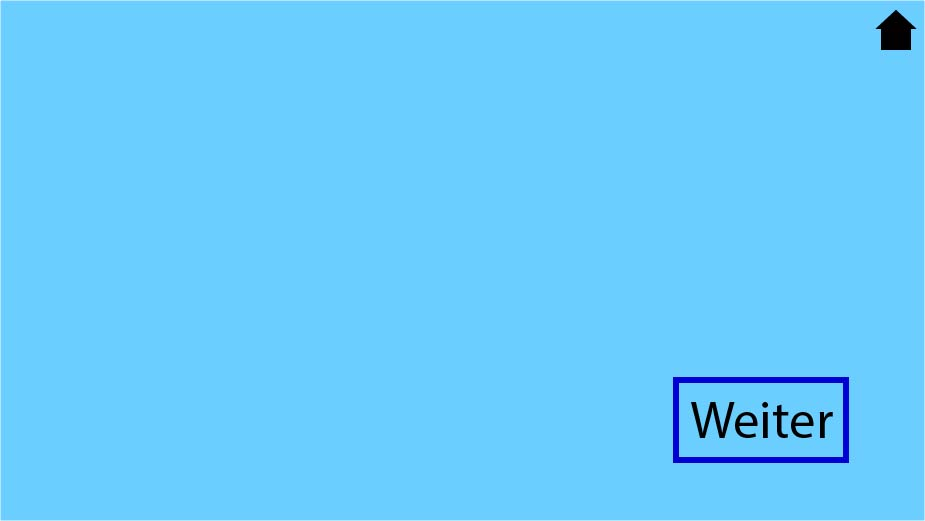
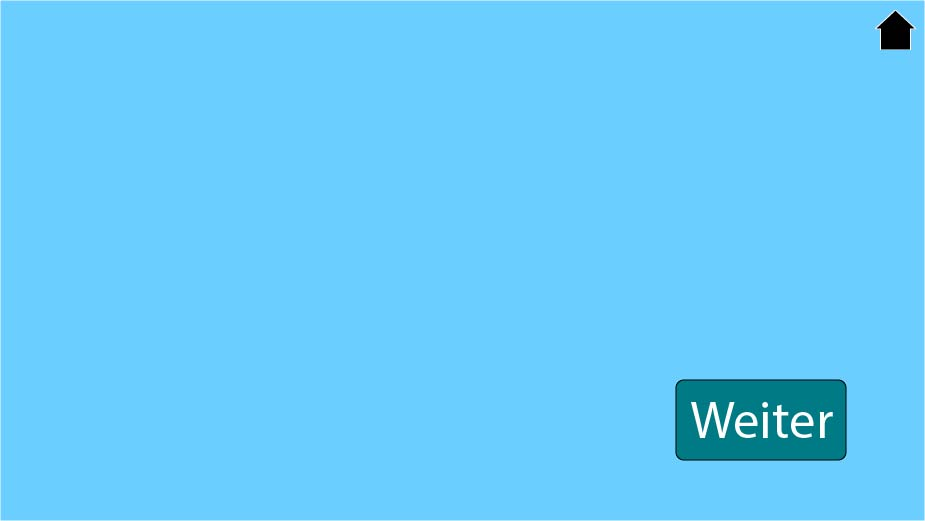
Level 1 Hintergrund Pfad geändert Home Button aktualisiert Collision Detection mit der Spielfigur in Level 4 hinzugefügt

Changed region(s): [[0.7265, 0.7063, 0.9384, 0.8906], [0.9384, 0.0307, 0.9989, 0.0614]]

diff --git a/js/level-4.js b/js/level-4.js
@@ -15,6 +15,7 @@ let rightPressed = false;
 let spacePressed = false;
 let brickWidth = 75;
 let brickHeight = 20;
+let shotsBricks = [];
 let brickColumnCount = 4;
 let brickRowCount = 4;
 let score = 0;
@@ -22,9 +23,10 @@ let lives = 3;
 let bricks = [];
 let frameCount = 0;
 let lastShot = 100000;
+let lastShotBricks = 100000;
 let brickCount = 0;
 
-for(let i = brickColumnCount; i > 0; i--){
+for (let i = brickColumnCount; i > 0; i--) {
     brickCount += i;
 }
 
@@ -43,7 +45,9 @@ function draw() {
     drawBricks();
     drawShip();
     drawShotsShip();
-    collisionDetection();
+    drawShotsBricks();
+    collisionWithBricks();
+    collisionWithShip();
     //drawLives();
     drawScore();
 }
@@ -82,7 +86,7 @@ function drawShip() {
     lastShot++;
     ctx.beginPath();
     ctx.rect(shipX, shipY, shipWidth, shipHeight);
-    ctx.fillStyle = "#307dff";
+    ctx.fillStyle = "#FFC717";
     ctx.fill();
     ctx.closePath();
 }
@@ -100,6 +104,15 @@ function drawBricks() {
                 ctx.fillStyle = "#ff4262";
                 ctx.fill();
                 ctx.closePath();
+                if (lastShotBricks > 100) {
+                    shotsBricks.push({
+                        x: brickX,
+                        y: brickY + shipHeight / 2 - shotHeight / 2,
+                        status: 1
+                    });
+                    lastShotBricks = 0;
+                }
+                lastShotBricks++;
             }
         }
     }
@@ -107,12 +120,26 @@ function drawBricks() {
 
 function drawShotsShip() {
     for (let i = 0; i < shots.length; i++) {
-        if(shots[i].status === 0){
+        if (shots[i].status === 0) {
             continue;
         }
-        shots[i].x = shots[i].x + 3;
+        shots[i].x = shots[i].x + 5;
         ctx.beginPath();
         ctx.rect(shots[i].x, shots[i].y, shotWidth, shotHeight);
+        ctx.fillStyle = "#ff0db4";
+        ctx.fill();
+        ctx.closePath();
+    }
+}
+
+function drawShotsBricks() {
+    for (let i = 0; i < shotsBricks.length; i++) {
+        if (shotsBricks[i].status === 0) {
+            continue;
+        }
+        shotsBricks[i].x = shotsBricks[i].x - 3;
+        ctx.beginPath();
+        ctx.rect(shotsBricks[i].x, shotsBricks[i].y, shotWidth, shotHeight);
         ctx.fillStyle = "#ff0db4";
         ctx.fill();
         ctx.closePath();
@@ -163,14 +190,14 @@ function drawLives() {
     ctx.fillText("Lives: " + lives, canvas.width - 65, 20);
 }
 
-function collisionDetection() {
+function collisionWithBricks() {
     for (let column = 0; column < brickColumnCount; column++) {
         for (let row = 0; row <= column; row++) {
             let b = bricks[column][row];
             if (b.status === 1) {
                 for (let i = 0; i < shots.length; i++) {
                     let shot = shots[i];
-                    if(shot.status === 0){
+                    if (shot.status === 0) {
                         continue;
                     }
                     if (shot.x + shotWidth >= b.x && shot.x + shotWidth <= b.x + brickWidth && shot.y >= b.y && shot.y <= b.y + brickHeight || shot.x + shotWidth >= b.x && shot.x + shotWidth <= b.x + brickWidth && shot.y + shotHeight >= b.y && shot.y + shotHeight <= b.y + brickHeight) {
@@ -179,13 +206,28 @@ function collisionDetection() {
                         score += 10;
                         if (score === 10 * brickCount) {
                             setTimeout(function () {
-                                alert("You defeated all enemies. You win!");
+                                ctx.clearRect(0, 0, canvas.width, canvas.height);
+                                alert("You win");
                                 document.location.reload();
                             }, 10);
                         }
                     }
                 }
             }
+        }
+    }
+}
+
+function collisionWithShip() {
+    for (let i = 0; i < shotsBricks.length; i++) {
+        let shot = shotsBricks[i];
+        if (shot.x <= shipX + shipWidth && shot.x >= shipX && shot.y >= shipY && shot.y <= shipY + shipHeight/* || shot.x + shotWidth >= b.x && shot.x + shotWidth <= b.x + brickWidth && shot.y + shotHeight >= b.y && shot.y + shotHeight <= b.y + brickHeight*/) {
+            setTimeout(function () {
+                ctx.clearRect(0, 0, canvas.width, canvas.height);
+                alert("You lose");
+                document.location.reload();
+            }, 10);
+
         }
     }
 }

diff --git a/css/level_1.css b/css/level_1.css
@@ -9,7 +9,7 @@ html {
 }
 
 body {
-  background-image: url('../resources/level_3/background-2.jpg');
+  background-image: url('../resources/background-all.jpg');
   background-repeat: no-repeat;
   background-attachment: fixed;
   background-size: cover;

diff --git a/level_1.html b/level_1.html
@@ -6,12 +6,10 @@
 		<title>Geometry Universe</title>
 		<link rel="stylesheet" href="css/level_1.css">
 	</head>
-	
-	
-	
+
 										 
 	<body onload="startGame()">
-		
+
 		<script src="js/level-1.js"></script>
 
 	</body>
